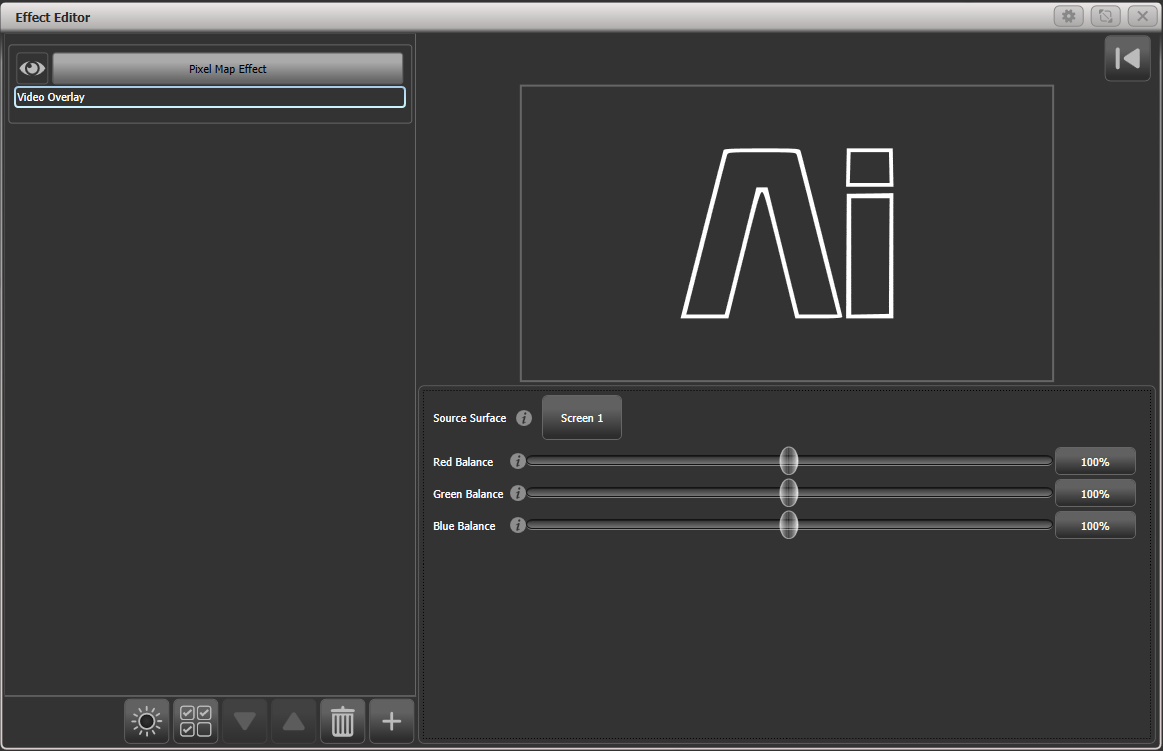
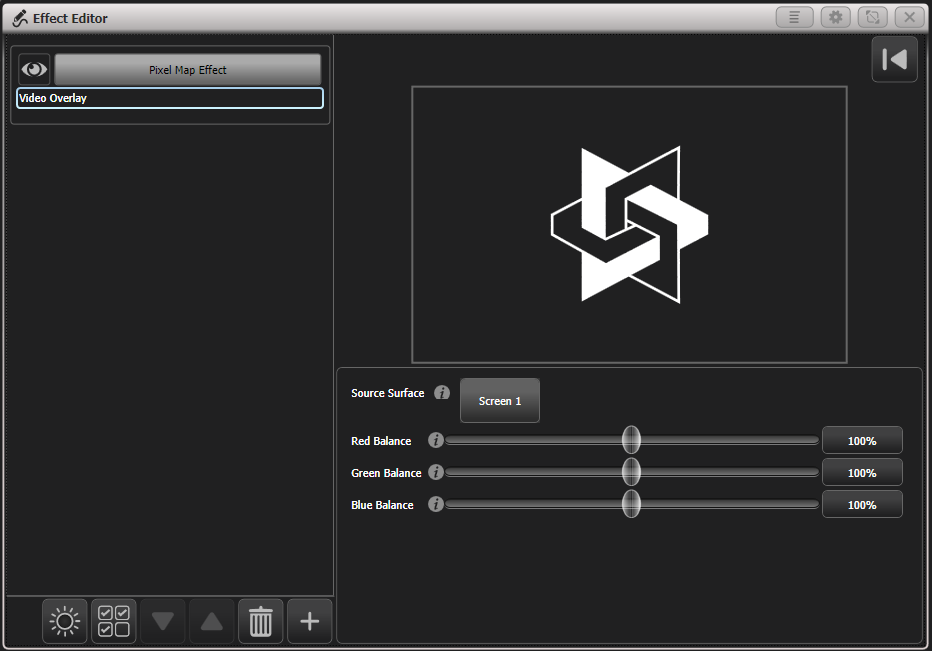
Update Synergy chapter for prism zero

Changed region(s): [[0.0, 0.0, 1.0, 1.0], [0.5601, 0.1843, 0.7779, 0.4608]]

diff --git a/docs/synergy/setting-up.md b/docs/synergy/setting-up.md
@@ -7,7 +7,7 @@ sidebar_label: Setting up Synergy
 import Keys from '@site/src/components/key.ts';
 import Video from '@site/src/components/video.tsx';
 
-## Connecting up
+## Connecting up an Ai server
 
 The Ai server(s) need to be connected by Ethernet to the Titan console.
 [Media previews](operating-synergy.md#media-viewer) use NDI streams which along with copying of large media
@@ -28,7 +28,6 @@ If you have problems getting Titan and Ai to recognise each other, make
 sure they are on matching software versions, and both in the same IP
 address subnet range such as `2.0.0.1` and `2.0.0.2` - read more about [Networking the Console](../networking.md).
 
-
 ## Setting up the Ai Show
 
 A simple Ai system involving a single screen or projector can be set up
@@ -41,6 +40,14 @@ the Ai show - see the Ai manual for more details on how to do this. You
 can create and rename Layers from the Titan console. The screen fixtures
 you have created in Ai will then become available as Surfaces in Titan.
 
+## Connecting up Prism Zero 
+
+You can connect to Prism Zero software running on any device connected to the same network as the console. 
+
+In the Prism Zero settings screen (File - Settings or click the icon in the top left corner), go to the Synergy option and turn on the "Enable Synergy" switch. Prism Zero will find Titan devices on the same network and will show "Connected" when it successfully connects to them. This setting is remembered next time you start Prism Zero.
+
+Once connected, you can use the Prism Zero output as a media surface in Titan by following the next section.
+
 ## Synergy Setup
 
 In Titan, open the **Synergy Settings** window using the Workspace button
@@ -49,22 +56,22 @@ menu.
 
 This window is a little like the [DMX settings screen](../system-settings/the-system-menu.md#dmx-settings): it lets you set up
 how the Titan console is linked to the various outputs on the Ai
-server(s). Also, it lets you add or remove layers from each Ai surface
-and add complete new surfaces to the Ai server (though you may need to
+server(s) or to Prism Zero. Also, for Ai servers it lets you add or remove layers from each Ai surface
+and add complete new surfaces to the server (though you may need to
 configure these further on the Ai server itself).
 
 ![Synergy Settings Window](/docs/images/Synergy-Settings-Window.png)
 
 On the left of the window the available Ai
-servers are shown. In the centre of the window, the Surfaces and Layers
+servers or Prism Zero instances are shown. In the centre of the window, the Surfaces and Layers
 configured in Titan are shown. Connection lines show how the Titan
-Surfaces will control the different outputs of the Ai server. At the
-bottom are Surfaces which are already configured on Ai but are not yet
+Surfaces will control the different outputs of the media servers. At the
+bottom are Surfaces which are already configured on the connected media servers but are not yet
 linked to Titan, these are called unmatched surfaces.
 
-Click on the <Keys.ContextKey>+</Keys.ContextKey> at the bottom and select Surface from the pop up to add a
-new surface. This will appear at the top; by default it has two layers
-but you can change this later.
+Click on the <Keys.ContextKey>+</Keys.ContextKey> at the bottom and select a Screen or Prism surface from the pop up to add a
+new surface. This will appear at the top; an Ai surface by default has two layers
+but you can change this later. A Prism Zero surface only has a single layer.
 
 ![Synergy Settings Window screen settings](/docs/images/Synergy-Settings-Window-screen-settings.png)
 
@@ -86,24 +93,24 @@ shows general information about the system. There is a switchable option
 using the media preview window, you will need to turn this on. If not
 leave it turned off, as it causes a lot of network traffic.
 
-Once you have created a surface in Titan, you need to match it to the Ai
-surface. Click on the <Keys.ContextKey>Link</Keys.ContextKey> button on the unmatched surface at the
+Once you have created a surface in Titan, you need to match it to the desired Ai
+surface or Prism Zero. Click on the <Keys.ContextKey>Link</Keys.ContextKey> button on the unmatched surface at the
 bottom, then click on the Screen 1 surface at the top (or you can click
 **"Link to new Surface"** to automatically create a new surface and link to
 it).
 
 ![Synergy Settings Window linking a screen](/docs/images/Synergy-Settings-Window-linking-a-screen.png)
 
-The Screen 1 Surface will now show that it is linked to the Ai server and the unmatched server at the bottom disappears.
+The Screen 1 Surface will now show that it is linked to the Ai server or Prism Zero and the unmatched server at the bottom disappears.
 
 ![Synergy Settings Window with a linked screen](/docs/images/Synergy-Settings-Window-with-a-linked-screen.png)
 
-You can link the Screen 1 Surface to one or more different physical
-outputs on the Ai server by clicking the screen, then clicking the
+On an Ai server you can link the Screen 1 Surface to one or more different physical
+outputs by clicking the screen, then clicking the
 output to connect on the left, for example if you want to show the same
 media on several screens.
 
-Once a layer is linked, if you open the layer properties in Ai the
+Once an Ai layer is linked, if you open the layer properties in Ai the
 **"Synergy Control"** box will show *"Enabled"*. Now you cannot control the
 screen using Ai, only from the Titan console.
 
@@ -118,7 +125,7 @@ linked to Ai, this will also delete the layer/surface in Ai.
 
 ## Synergy Fixtures Window
 
-Every layer on the Ai server appears as a button in the Synergy Fixtures
+Every Prism Zero layer or Ai server layer appears as a button in the Synergy Fixtures
 window. You can display this using the button at the bottom of the
 [Synergy Settings window](#synergy-setup) or by double tapping <Keys.HardKey>Open/View</Keys.HardKey>
 and then selecting it from the window select buttons.
@@ -127,8 +134,7 @@ and then selecting it from the window select buttons.
 
 You use these buttons to select one or more layers for control, just as
 you would select lighting fixtures to control. Once selected, use the
-[Attribute Editor](operating-synergy.md#attribute-editor-for-controlling-ai-layers) or [wheels](../controlling-fixtures/changing-fixture-attributes.md#changing-attributes-using-the-wheels) to control the media playback and effects on
-the Ai server. You can then [store palettes](../palettes/creating-palettes.md) and [playbacks](../cues/creating-a-cue.md#creating-a-cue) as with any
+[Attribute Editor](operating-synergy.md#attribute-editor-for-controlling-ai-layers) or [wheels](../controlling-fixtures/changing-fixture-attributes.md#changing-attributes-using-the-wheels) to control the media playback and effects. You can then [store palettes](../palettes/creating-palettes.md) and [playbacks](../cues/creating-a-cue.md#creating-a-cue) as with any
 other lighting fixture. This is described in the next section, [Operating Synergy](operating-synergy.md).
 
 > The Synergy layers are shown in their own window to keep them

diff --git a/docs/synergy/operating-synergy.md b/docs/synergy/operating-synergy.md
@@ -7,14 +7,14 @@ sidebar_label: Operating Synergy
 import Keys from '@site/src/components/key.ts';
 import Video from '@site/src/components/video.tsx';
 
-Once Titan and the Ai server(s) are [linked up](setting-up.md), you can start controlling
-Ai from the console.
+Once Titan and the Ai server(s) or Prism Zero applications are [linked up](setting-up.md), you can start controlling
+them from the console.
 
 ## Uploading Content with the Media browser
 
 The Media Browser allows you to upload media content directly to the Ai
-server from the Titan console. You can also create new media banks on
-the server. Media content will be automatically transcoded to the AiM
+server or the machine running Prism Zero from the Titan console. You can also create new media banks on
+an Ai server. Media content will be automatically transcoded to the AiM
 codec as required by the Ai system. This is very handy when you are
 handed a last-minute media file at the front of house position.
 
@@ -37,13 +37,12 @@ in the bank. Click the <Keys.ContextKey>+</Keys.ContextKey> button at the side o
 new bank. At the top of this column, the available disk space and the
 path on the Ai server where the media is being stored is shown.
 
-To copy media files to the Ai server, select the files you want to
+To copy media files to the Ai server or Prism Zero, select the files you want to
 transfer in the middle window, then click on the bank you want to
 transfer them to on the server.
 
-If the Ai server already has files on it with the same names as files
-you have selected for transfer, the files will be highlighted in red in
-the Ai server window as a warning.
+If the server already has files on it with the same names as files
+you have selected for transfer, the files will be highlighted in red as a warning.
 
 ![Ai Media Browser uploading content](/docs/images/Ai-Media-Browser-uploading-content.png)
 
@@ -56,14 +55,14 @@ transfer).
 
 You can also turn off the automatic transcoding to AiM codec, but
 normally we would recommend that this option is left on. Once the files
-are uploaded, any requiring transcoding are added to a queue in Ai. You
+are uploaded, any requiring transcoding are added to a queue in Ai or Prism Zero. You
 can see the progress of the transcoding by viewing the clips in the
 [Attribute Editor](#attribute-editor-for-controlling-ai-layers), see below.
 
 ## Media Viewer
 
 The Video Multi View window allows you to view any of the layers being
-produced by the Ai server, or any of the combined surface outputs. In
+produced by the Synergy layers, or any of the combined surface outputs on an Ai server. In
 addition you can view any other NDI streams available on the network, so
 for example at a broadcast event the broadcaster could feed you the
 program output or individual cameras to check lighting levels.
@@ -98,17 +97,17 @@ Format | Data Rate
 3840x2160p30 | 280Mbps
 3840x2160p60 | 480Mbps
 
-## Attribute Editor for Controlling Ai Layers
+## Attribute Editor for Controlling Synergy Layers
 
-Once you have selected one or more Ai layers to control from the [Synergy
+Once you have selected one or more media layers to control from the [Synergy
 Fixtures window](setting-up.md#synergy-fixtures-window), the Attribute Editor lets you play back and manipulate
 media on those layers (you can also use the wheels and Attribute Bank
 buttons.
 
 > The most important attributes are **Intensity**, which set the output level
 of each layer, and **Media Selection** which lets you choose the Bank and
-Clip to play. But you can also control all other functions of Ai such as
-adding FX and colour.
+Clip to play. But you can also control all other functions of Ai server such as
+adding FX and colour, or the smaller range of functions on Prism Zero layers.
 
 ![Clip tab of Attribute Editor for Synergy layer](/docs/images/Clip-tab-of-Attribute-Editor-for-Synergy-layer.png)
 
@@ -145,12 +144,12 @@ fixture. So colour, zoom, position and so on can be stored in a
 palette and used to quickly modify the appearance of the media.
 [Palette fade times](../palettes/timing-with-palettes.md) will also operate as you would expect.
 
-## Lightmap: Pixel Mapping Ai Media Content
+## Lightmap: Pixel Mapping Media Content
 
 Often you might want to output video content to lighting fixtures
 patched on the console (for example if you have LED screens with
 fixtures around or in between them). The pixel mapper can directly play
-back media clips from the Ai server. These can be sourced from
+back media clips from the Ai server or Prism Zero. These can be sourced from
 individual layers or from surfaces (combined layer outputs). The surface
 outputs do not need to be connected to a physical output on the Ai
 server.
@@ -164,20 +163,20 @@ want to use.
 2. Select <Keys.SoftKey>Shapes and Effects</Keys.SoftKey>, then <Keys.SoftKey>Pixel Mapper</Keys.SoftKey>.
 3. Select a **[group of fixtures](../controlling-fixtures/fixture-groups.md)** to play back on.
 4. Add an effect using the <Keys.ContextKey>+</Keys.ContextKey> button.
-5. Select Ai feed using the **Ai** button.<br/>
-  ![Adding an element in the Pixel Mapper Window](/docs/images/Adding-an-element-in-the-Pixel-Mapper-Window.png)
+5. Select Synergy feed using the **Synergy** button.<br/>
+  ![Effect Editor - Pixel Mapper - Adding an Element](/docs/images/Effect-Editor-Pixel-Mapper-Adding-an-Element.png)
 6. Select the surface you want to take the media from using the **Source Surface** option. You can also adjust the colour balance using the **Red/Green/Blue sliders**.<br/>
   ![Ai layer video overlay in Pixel Mapper Window](/docs/images/Ai-layer-video-overlay-in-Pixel-Mapper-Window.png)
 
 The media clip selected in step 1 should now be playing back over the
-fixtures you selected. The pixel map effect is now linked to the Ai
+fixtures you selected. The pixel map effect is now linked to the Synergy
 surface so you can change the clip which is playing using Attribute
 Editor or from programmed cues and you will see the change on the
 fixture outputs.
 
 ![Pixel Mapped fixtures with Ai screen shown in Capture Visualiser](/docs/images/Pixel-Mapped-fixtures-with-Ai-screen-shown-in-Capture-Visualiser.png)
 
-## Layout editor with Ai server
+## Layout editor with Synergy
 
 The basic operation of the Layout Editor is described in [Fixture Order and Fixture Layout in Groups](../controlling-fixtures/fixture-groups.md#fixture-order-and-fixture-layout-in-groups).
 

diff --git a/docs/synergy.md b/docs/synergy.md
@@ -1,21 +1,15 @@
 ---
 id: synergy
-title: Synergy and Linking to AI
-sidebar_label: Synergy and Linking to AI
+title: Linking to media with Synergy
+sidebar_label: Synergy
 ---
 
 import Video from '@site/src/components/video.tsx';
 
 <Video videoId="twfDqjNFasA" title="Synergy" />
 
-From v12, Titan includes Avolites Synergy software which allows you full
-control over one or more networked Ai media servers. Not only can you
-control playback of media and effects, but also upload new media to the
-server with automatic transcoding, create new screen fixtures and new
-layers on them, and preview multiple media streams in the Titan
-workspaces.
+Titan includes Avolites Synergy software which allows you full control over one or more networked Ai media servers or the Avolites Prism Zero media application.  Not only can you control playback of media and effects, but also upload new media with automatic transcoding, create new screen fixtures and new layers on AI servers, and preview multiple media streams in the Titan workspaces.
 
-For shows which include video content, this gives you a much smoother
-workflow when creating and running the show.
+For shows which include video content, this gives you a much smoother workflow when creating and running the show.
 
 > Ai refers to media outputs as "Screen Fixtures". To avoid confusion with Titan fixtures, Titan doesn't use "Fixture" and refers to them as **"Screens"** (and in some places **"Surfaces"**).

diff --git a/docs/effects/pixel-mapper.md b/docs/effects/pixel-mapper.md
@@ -48,7 +48,7 @@ the following elements to animate:
 -   Text
 -   Scribble *(you draw an image on the touch screen)*
 -   Image/bitmap *(loaded from disk)*
--   [Ai media server content](../synergy/operating-synergy.md#lightmap-pixel-mapping-ai-media-content)
+-   [Synergy content](../synergy/operating-synergy.md#lightmap-pixel-mapping-media-content) from Ai media server or Prism Zero
 
 ![Effect Editor - Pixel Mapper - Adding an Element](/docs/images/Effect-Editor-Pixel-Mapper-Adding-an-Element.png)
 
